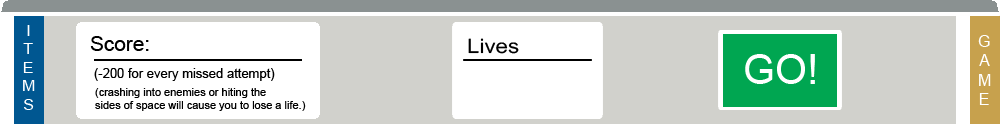
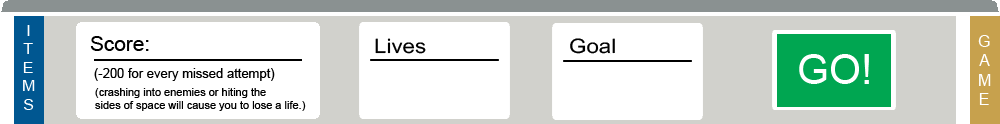
a

Changed region(s): [[0.341, 0.1694, 0.899, 0.9677]]

diff --git a/gameobjects.py b/gameobjects.py
@@ -114,7 +114,7 @@ class Bar(Sprite):
 class ToolBar(Bar):
     def __init__(self,x,y,friends,place,image=str('taskbar.png')):
         Bar.__init__(self,x,y,friends,place,image)
-        self.lives = Lives(493,697,self.group,self.screen)
+        self.lives = Lives(402,697,self.group,self.screen)
 
     def lives_update(self):
         self.lives.update()
